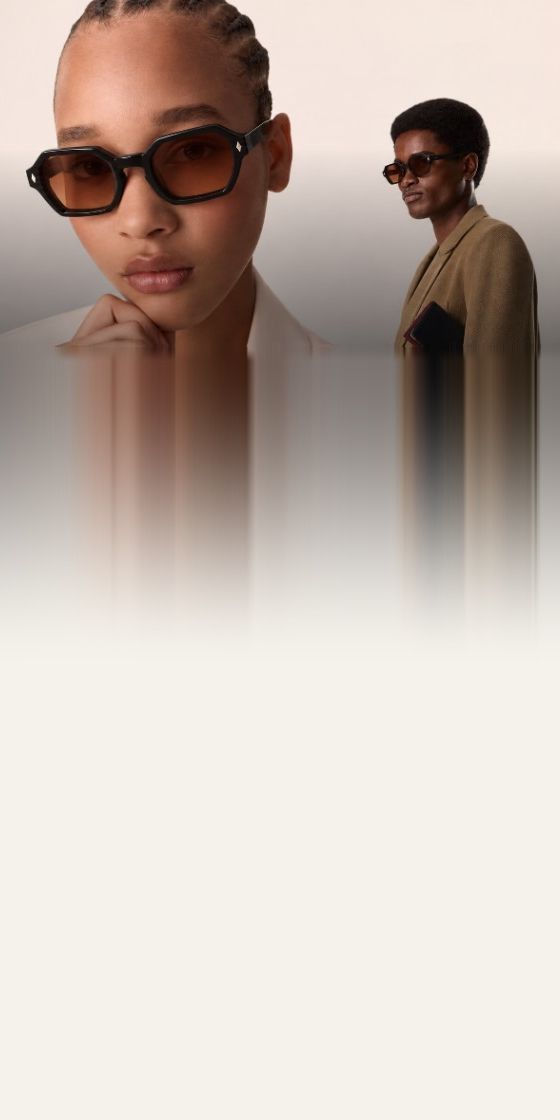
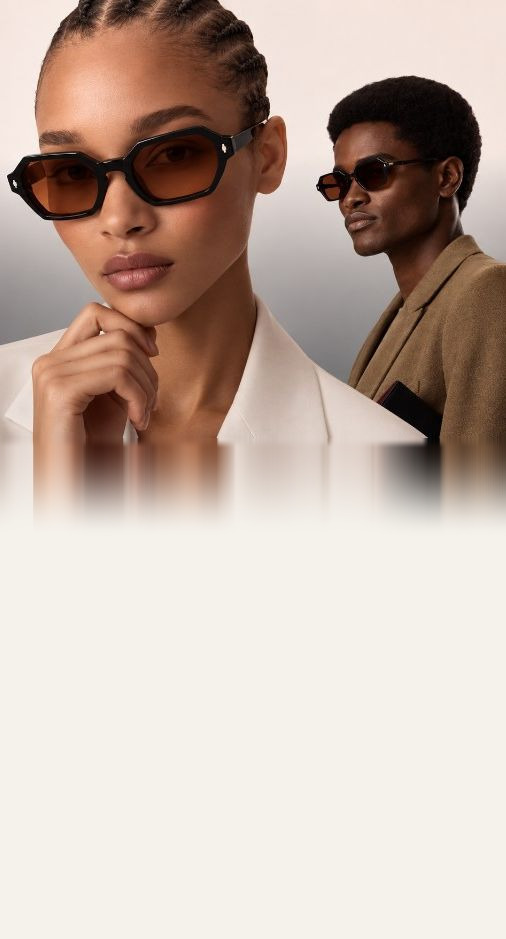
New campaign master, and a phone hero that is nearly half photograph
The master is replaced on both breakpoints. The models stand close
together in this one and the frame is 438px tall rather than 347, which
is most of what follows: the picture's share of a phone screen is its
height times the screen's proportions over the crop width, so a taller
master with less air between the two of them is the only thing that moves
it. It goes from a third of the screen to a little under a half, and the
desktop frame shows four fifths of its width instead of three fifths.

The fade under it is also much shorter. It used to run most of the way
down the canvas, which made the blurred part the thing you noticed
instead of the photograph; the canvas is now cut to the proportions of a
tall phone rather than to twice the crop width, so there is far less
extension to fade through, and the fade itself finishes in a fifth of
what remains.

The slice-and-rejoin that closed the gap between the models comes out
again. It existed because the old master stood them eighty columns apart
and the empty sweep between them was pure cost on a phone. This one does
not have the problem.

Filling the whole of a phone screen with photograph is still not possible
here and will not be until a frame is composed in portrait. The crop
cannot go narrower than two faces, and that sets the ceiling at about
half.

diff --git a/src/components/home/editorial.tsx b/src/components/home/editorial.tsx
@@ -14,13 +14,13 @@ import { getDictionary } from "@/lib/i18n/dictionary";
  * chrome and pushes the line off the bottom, and `dvh` changes as that
  * chrome retracts, which re-lays out the hero while it is being read.
  *
- * TWO FILES, NOT TWO CROPS. The campaign frame is 2.95:1 and a phone is
+ * TWO FILES, NOT TWO CROPS. The campaign frame is 2.34:1 and a phone is
  * about 1:1.9. Filling a portrait screen from the landscape file shows
- * roughly a sixth of its width, which is one face with the sunglasses cut
- * off at either edge, and no object-position rescues that: `cover` cannot
- * show more width than the box's own proportions allow. So the phone gets
- * its own portrait file, cut to the stretch of width that holds both
- * models and extended downward into the paper. See
+ * only a narrow band of its width, which is one face with the sunglasses
+ * cut off at either edge, and no object-position rescues that: `cover`
+ * cannot show more width than the box's own proportions allow. So the
+ * phone gets its own portrait file, cut to the stretch of width that holds
+ * both models and extended downward into the paper. See
  * scripts/make-portrait-hero.mjs, which derives it and explains itself.
  *
  * It is pinned to the top. The portrait file is taller than any phone in
@@ -29,10 +29,12 @@ import { getDictionary } from "@/lib/i18n/dictionary";
  * it that was never photographed.
  *
  * NOTE ON THE SOURCE: the landscape master is 1024px against a full
- * viewport, so it is enlarged roughly 1.4x on a laptop, and the portrait
- * file is cut from it and so cannot be wider than 560px. Both are soft on a
- * dense screen. A real master around 2800px, with a portrait crop shot or
- * cropped by the editor, replaces all of this and lets the script go.
+ * viewport, so it is enlarged on a laptop, and the portrait file is cut
+ * from it and so is narrower again. Both are soft on a dense screen, and
+ * the picture can only reach about half the height of a phone, because the
+ * master is 438px tall and the crop has to stay wide enough for two faces.
+ * A master around 2800px, with a frame actually composed in portrait,
+ * replaces all of this and lets the script go.
  */
 
 /*
